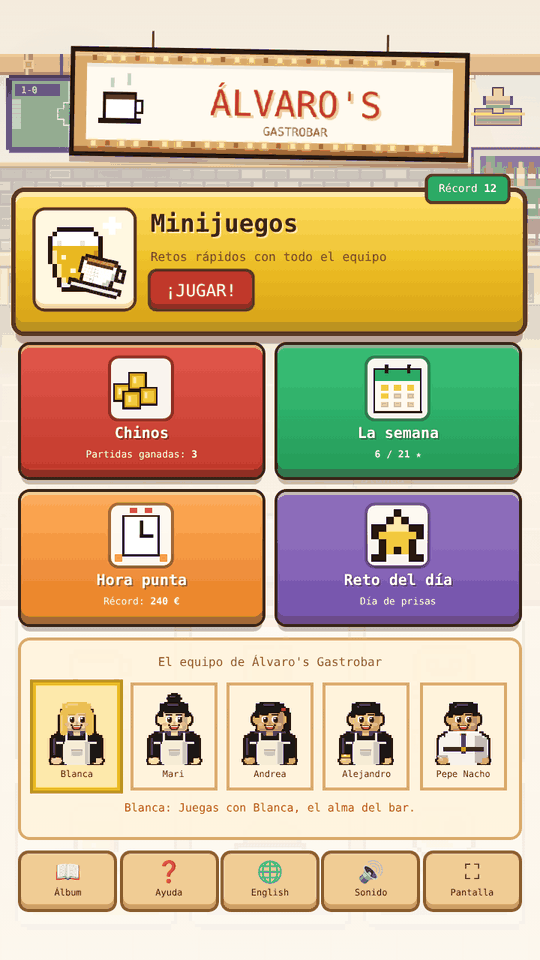
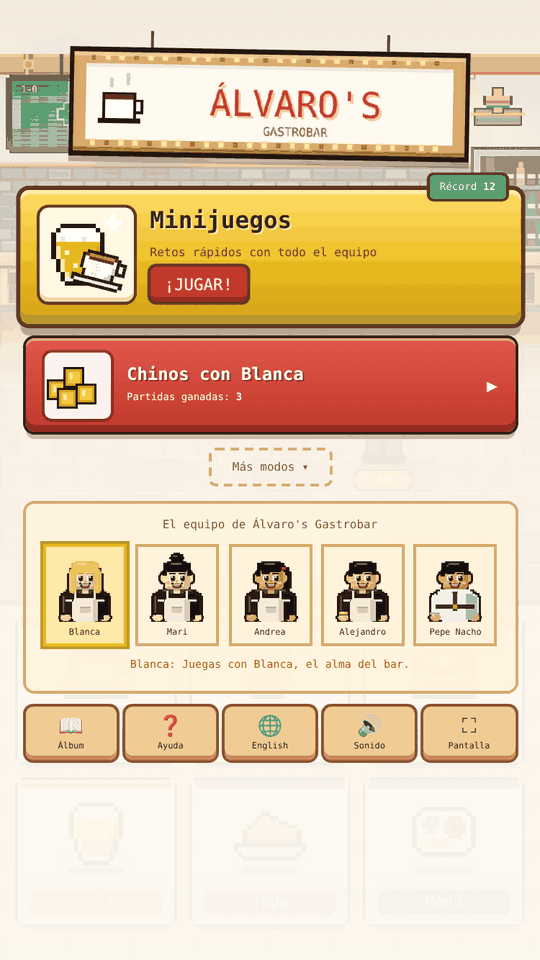
Simplify the menu: mini-games and chinos up front
- The two main choices are the big mini-games button and a wide chinos card
- The week, rush hour and the daily challenge are folded under 'More modes'
- Updated menu screenshot, README and changelog

diff --git a/index.html b/index.html
@@ -38,12 +38,19 @@
           <span class="badge"><span data-i18n="best"></span> <b id="title-mini"></b></span>
         </button>
 
-        <div class="modes">
-          <button id="btn-chinos" class="mode mode-chinos" type="button">
-            <canvas class="mode-icon" data-icon="chinos" width="96" height="96" aria-hidden="true"></canvas>
-            <strong data-i18n="chinosShort"></strong>
+        <button id="btn-chinos" class="mode mode-chinos mode-wide" type="button">
+          <canvas class="mode-icon" data-icon="chinos" width="96" height="96" aria-hidden="true"></canvas>
+          <span class="mode-text">
+            <strong data-i18n="chinosMode"></strong>
             <small><span data-i18n="chinosWins"></span>: <b id="title-chinos"></b></small>
-          </button>
+          </span>
+          <span class="mode-arrow" aria-hidden="true">▶</span>
+        </button>
+
+        <button id="btn-more" class="more-toggle" type="button" aria-expanded="false" aria-controls="more-modes">
+          <span data-i18n="moreModes"></span> <span class="more-caret" aria-hidden="true">▾</span>
+        </button>
+        <div id="more-modes" class="modes more-modes" hidden>
           <button id="btn-play" class="mode mode-week" type="button">
             <canvas class="mode-icon" data-icon="week" width="96" height="96" aria-hidden="true"></canvas>
             <strong data-i18n="weekShort"></strong>
@@ -52,11 +59,11 @@
           <button id="btn-rush" class="mode mode-rush" type="button">
             <canvas class="mode-icon" data-icon="rush" width="96" height="96" aria-hidden="true"></canvas>
             <strong data-i18n="rush"></strong>
-            <small><span data-i18n="best"></span>: <b id="title-best"></b></small>
+            <small><b id="title-best"></b></small>
           </button>
           <button id="btn-daily" class="mode mode-daily" type="button">
             <canvas class="mode-icon" data-icon="daily" width="96" height="96" aria-hidden="true"></canvas>
-            <strong data-i18n="daily"></strong>
+            <strong data-i18n="dailyShort"></strong>
             <small id="daily-twist"></small>
           </button>
         </div>

diff --git a/css/style.css b/css/style.css
@@ -719,3 +719,86 @@ p {
     animation: none;
   }
 }
+
+/* Simplified menu: two main choices, the rest under "More modes" */
+.mode-wide {
+  flex-direction: row;
+  justify-content: flex-start;
+  gap: 0.7rem;
+  width: min(100%, 340px);
+  padding: 0.6rem 0.8rem;
+  text-align: left;
+  animation-delay: 0.1s;
+}
+
+.mode-wide .mode-icon {
+  width: 46px;
+  height: 46px;
+}
+
+.mode-text {
+  display: flex;
+  flex-direction: column;
+  gap: 0.35rem;
+  flex: 1;
+}
+
+.mode-wide strong {
+  font-size: 12px;
+}
+
+.mode-wide small {
+  font-size: 7px;
+}
+
+.mode-arrow {
+  font-size: 12px;
+  animation: nudge 1.4s ease-in-out infinite;
+}
+
+.more-toggle {
+  padding: 0.45rem 0.9rem;
+  font-family: var(--font);
+  font-size: 8px;
+  color: #8a5a32;
+  background: transparent;
+  border: 2px dashed #d9a868;
+  border-radius: 5px;
+  cursor: pointer;
+  animation: pop-in 0.45s ease-out 0.18s both;
+}
+
+.more-caret {
+  display: inline-block;
+  transition: transform 0.2s;
+}
+
+.more-toggle.open .more-caret {
+  transform: rotate(180deg);
+}
+
+.more-modes {
+  grid-template-columns: repeat(3, 1fr);
+  gap: 0.5rem;
+}
+
+.more-modes[hidden] {
+  display: none;
+}
+
+.more-modes .mode {
+  padding: 0.45rem 0.25rem 0.5rem;
+}
+
+.more-modes .mode-icon {
+  width: 32px;
+  height: 32px;
+}
+
+.more-modes .mode strong {
+  font-size: 7.5px;
+}
+
+.more-modes .mode small {
+  font-size: 6px;
+}

diff --git a/src/main.js b/src/main.js
@@ -154,7 +154,7 @@ function renderTeam() {
 }
 
 function renderTitle() {
-  $('title-best').textContent = money(state.best);
+  $('title-best').textContent = `${t('best')}: ${money(state.best)}`;
   $('title-mini').textContent = String(state.miniBest || 0);
   $('title-chinos').textContent = String(state.chinosWins || 0);
   $('title-total').textContent = `${totalStars()} / ${WEEK.length * 3} ★`;
@@ -586,6 +586,12 @@ $('btn-play').addEventListener('click', () => {
 });
 $('btn-rush').addEventListener('click', () => startGame('rush'));
 $('btn-mini').addEventListener('click', () => startGame('mini'));
+$('btn-more').addEventListener('click', () => {
+  const panel = $('more-modes');
+  panel.hidden = !panel.hidden;
+  $('btn-more').setAttribute('aria-expanded', String(!panel.hidden));
+  $('btn-more').classList.toggle('open', !panel.hidden);
+});
 $('btn-chinos').addEventListener('click', () => startGame('chinos'));
 $('btn-next').addEventListener('click', () => startGame('week', day + 1));
 $('btn-daily').addEventListener('click', () => startGame('daily'));

diff --git a/src/core/locales/es.js b/src/core/locales/es.js
@@ -4,6 +4,8 @@ export default {
   title: "Álvaro's Gastrobar",
   subtitle: '¡Atiende a la clientela antes de que se le acabe la paciencia!',
   play: 'Jugar',
+  moreModes: 'Más modos',
+  dailyShort: 'Del día',
   playNow: '¡JUGAR!',
   chinosShort: 'Chinos',
   weekShort: 'La semana',

diff --git a/src/core/locales/en.js b/src/core/locales/en.js
@@ -4,6 +4,8 @@ export default {
   title: "Álvaro's Gastrobar",
   subtitle: 'Serve the regulars before they lose their patience!',
   play: 'Play',
+  moreModes: 'More modes',
+  dailyShort: 'Daily',
   playNow: 'PLAY!',
   chinosShort: 'Chinos',
   weekShort: 'The week',

diff --git a/README.md b/README.md
@@ -50,7 +50,11 @@ The classic bar coin game. Hide 0 to 3 coins, call the total of both hands witho
 
 <img src="docs/screenshots/chinos.png" alt="Chinos with Blanca" width="230" />
 
-### 📅 A week at Álvaro's
+### More modes
+
+Under **More modes** in the menu, for those who want more.
+
+#### 📅 A week at Álvaro's
 One shift per day, from Monday to Sunday. Prepare items at the stations and serve the customers before they lose their patience:
 
 1. Customers sit at the bar and show what they want in a speech bubble.
@@ -59,7 +63,7 @@ One shift per day, from Monday to Sunday. Prepare items at the stations and serv
 
 Monday only has coffee and toast, and a pointing hand shows what to tap; each day adds new items and a bit more pace. Shifts always end, tired customers just leave without a tip, and each day earns one to three stars. Keyboard on desktop: `1`–`6` stations, `Q W E R` customers, `Z X C V` tray, `P` to pause.
 
-### ⏱ Rush hour and the daily challenge
+#### ⏱ Rush hour and the daily challenge
 The bar without an end, with three lives and a growing pace, for the competitive ones. The daily challenge gives every player the same customers and the same twist on the same day.
 
 ## The team

diff --git a/CHANGELOG.md b/CHANGELOG.md
@@ -14,6 +14,7 @@ All notable changes to this project are documented here.
 - Proprietary license (all rights reserved).
 
 ### Changed
+- Simpler menu: mini-games and chinos up front, the week, rush hour and the daily challenge folded under "More modes".
 - The penalty mini-game is replaced by flipping the tortilla, which fits the bar better.
 - The bar is now Álvaro's Gastrobar.
 - Code reorganised into `src/` by responsibility, with one file per mini-game and shared drawing helpers.
